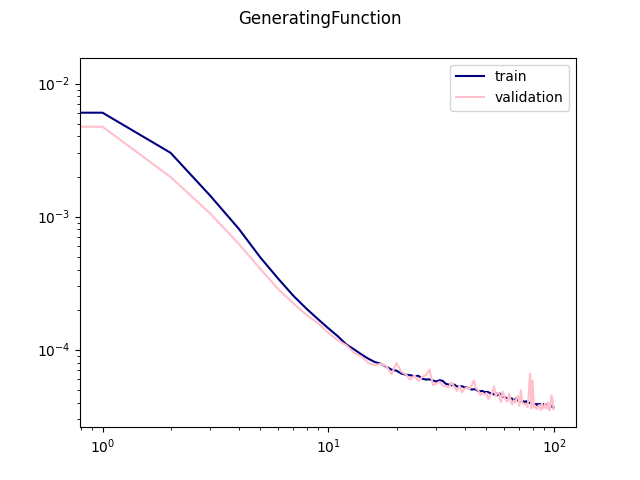
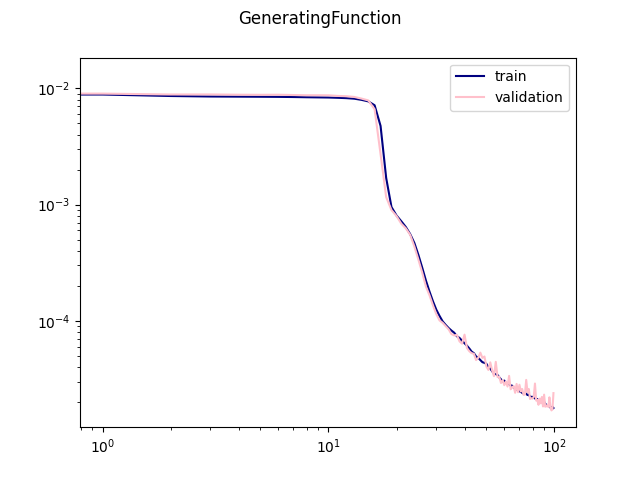
added repulsive loss

diff --git a/procedures.py b/procedures.py
@@ -1,6 +1,9 @@
 import os
 from os.path import join
+import numpy as np
 import torch
+from torch.autograd.functional import jacobian
+from functorch import jacfwd, jacrev, vmap
 from pathlib import Path
 from matplotlib import pyplot as plt
 from datetime import datetime
@@ -87,12 +90,39 @@ def training_procedure(num_epochs=100, type="GeneratingFunction", cs="Custom"):
     training.plot_loss()
 
 
+def batch_jacobian(f, input):
+    """
+    Compute the diagonal entries of the jacobian of f with respect to x
+    :param f: the function
+    :param x: where it is to be evaluated
+    :return: diagonal of df/dx. First dimension is the derivative
+    """
+
+    # compute vectorized jacobian. For curvature because of nested derivatives, for some of the backward functions
+    # the forward mode AD is not implemented
+    if input.ndim == 1:
+        try:
+            jac = jacfwd(f)(input)
+        except NotImplementedError:
+            jac = jacrev(f)(input)
+
+    else:
+        try:
+            jac = vmap(jacfwd(f), in_dims=(0,))(input)
+        except NotImplementedError:
+            jac = vmap(jacrev(f), in_dims=(0,))(input)
+
+    return jac
+
+
 def minimization_procedure(a, b, dir=None):
-    filename = os.path.join(os.path.dirname(__file__), "output/models", dir, "model.pth")
+    filename = os.path.join(os.path.dirname(__file__),
+                            "output/models", dir, "model.pth")
 
     generating_function = ReLuModel(input_dim=2, output_dim=1)
-    generating_function.load_state_dict(torch.load(filename)["model_state_dict"])
-
+    #generating_function.load_state_dict(
+    #    torch.load(filename)["model_state_dict"])
+    
     # number of applications of return map
     n = 2
 
@@ -100,22 +130,34 @@ def minimization_procedure(a, b, dir=None):
     orbit = Orbit(a=a, b=b, n=n)
     # orbit.set_u(u_map(orbit.pair_s()))
 
-    optimizer = torch.optim.Adam([orbit.phi], lr=1e-3)
+    optimizer = torch.optim.Adam([orbit.phi], lr=1e-2)
 
-    print(generating_function(orbit.pair_phi()[0]))
-    print(generating_function(orbit.pair_phi()))
+    alpha = 1e3
 
-    n_epochs = 0
+    # TODO: plot the two loss curves
+    # TODO: evaluate whether einfallswinkel=ausfallswinkel is satisfied
+
+    n_epochs = 5000
     for epoch in range(n_epochs):
         optimizer.zero_grad()
-        action = torch.abs(torch.sum(generating_function(orbit.pair_phi())))
-        action.backward()
 
+        grad_norm = torch.linalg.norm(batch_jacobian(generating_function.model, orbit.pair_phi()).flatten())
+
+        points = torch.stack([orbit.table.a*torch.cos(orbit.phi), orbit.table.b*torch.sin(orbit.phi)]).T
+        dists = torch.cdist(points, points)
+
+        repulsive_loss = torch.exp(-torch.mean(dists))
+
+        loss = grad_norm + alpha*repulsive_loss
+
+        loss.backward()
         optimizer.step()
 
-        print('Epoch: {}, Action: {:.4f}'.format(epoch+1, action))
+        with torch.no_grad():
+            orbit.phi.remainder_(2*np.pi)
 
-        # test = [-orbit.u[0] + orbit.u[1], -orbit.u[1] + orbit.u[2]]
-        # print(orbit.s)
+        print('Epoch: {}, Loss: {:.4f}'.format(epoch+1, grad_norm))
+
+    orbit.plot()
 
     print(orbit.phi)

diff --git a/ml/models.py b/ml/models.py
@@ -7,11 +7,11 @@ class ReLuModel(nn.Module):
 
         self.model = nn.Sequential(
             nn.Linear(input_dim, 10),
-            nn.ReLU(),
+            nn.ELU(),
             nn.Linear(10, 10),
-            nn.ReLU(),
+            nn.ELU(),
             nn.Linear(10, 10),
-            nn.ReLU(),
+            nn.ELU(),
             nn.Linear(10, output_dim)
         )
 
@@ -19,5 +19,5 @@ class ReLuModel(nn.Module):
         y = self.model(x)
         return y
     
-    def parameters(self, *args, **kwargs):
-        return self.model.parameters(*args, **kwargs)
+    #def parameters(self, *args, **kwargs):
+    #    return self.model.parameters(*args, **kwargs)

diff --git a/dynamics.py b/dynamics.py
@@ -220,6 +220,18 @@ class Orbit:
     def pair_s(self, periodic=True):
         return self.pairs(self.s, periodic=periodic)
 
+    def plot(self):
+        fig, ax = plt.subplots()
+
+        ax.add_patch(self.table.get_patch(fill="white"))
+        ax.set_xlim([-3, 3])
+        ax.set_ylim([-3, 3])
+
+        points = self.table.boundary(self.phi.detach().numpy()).T
+        ax.scatter(points[:, 0], points[:, 1])
+
+        plt.show()
+
 
 class Action:
     def __init__(self, a, b, mode="classic", *args, **kwargs):
